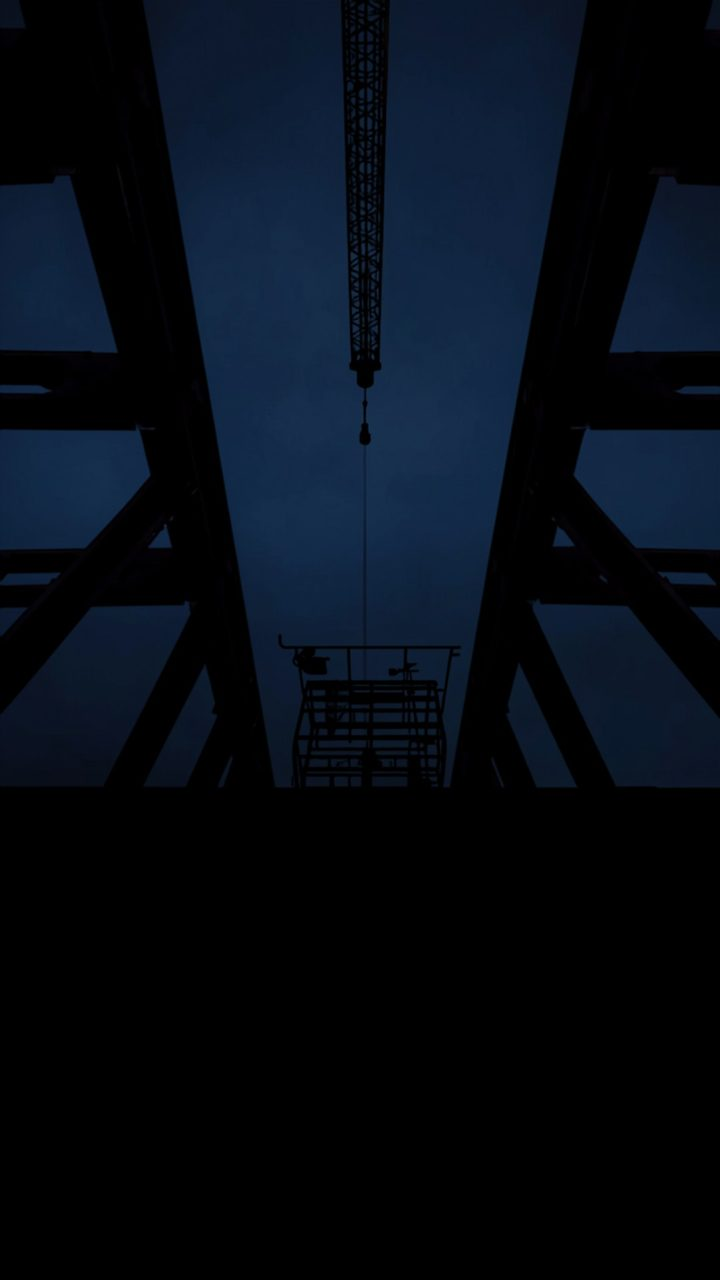
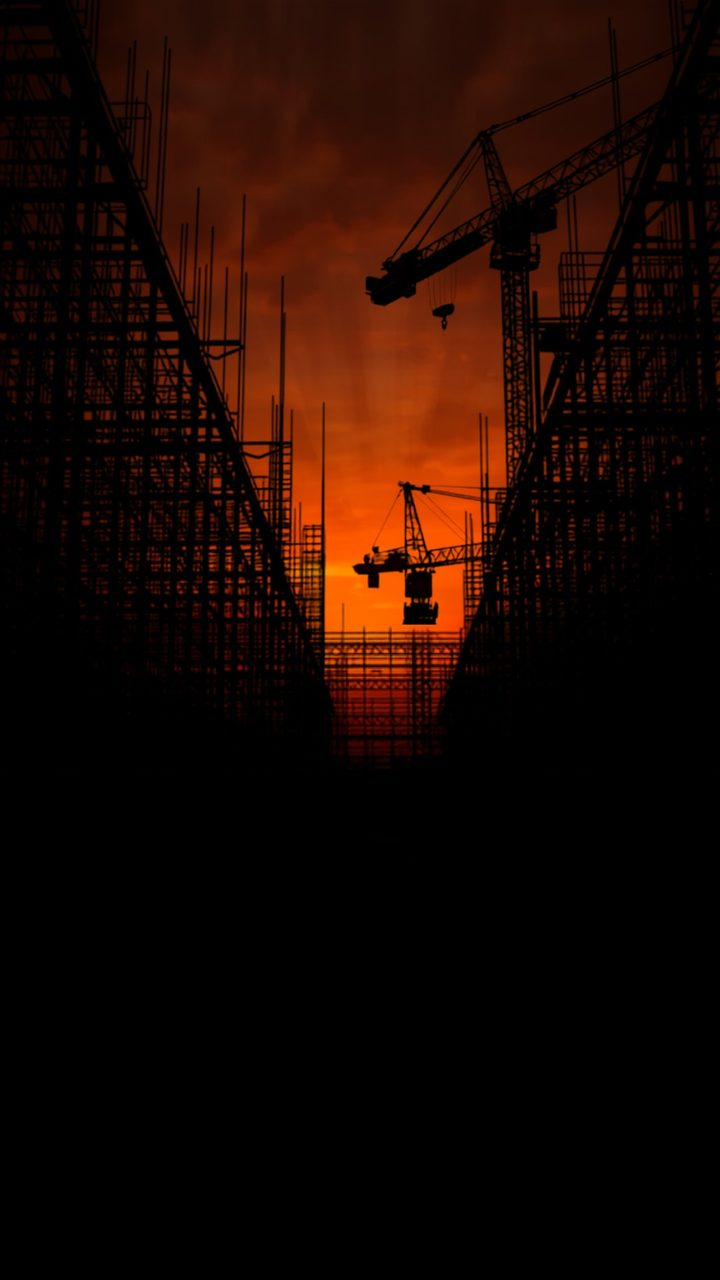
feat(brand): extend sunlight revamp site-wide + warm sector imagery
- Sweep 20 remaining pages/components from navy+coral to black/white/yellow
  (about, auth, 404, company hero/roles, job filters, tabs, employer/admin,
  candidate portal, impjieg-mark) — removed AI-tell eyebrow pills, gradient
  text, signal-blue/teal glows; navy panels -> warm-black
- Email/QR/brand color constants (brand.ts, email-branding.ts, job-alerts.ts,
  qr-code.ts) repointed to sunlight palette with contrast preserved (email
  accent text -> dark gold #8A6300; QR modules -> near-black; CTA yellow w/ dark text)
- Regenerated all 8 sector card images in warm amber/black tones to match the
  yellow brand (was cool navy/blue) — ~500KB total
- Added soft sunlight glow behind the homepage hero

Production build + lint pass.

diff --git a/src/app/admin/dashboard/page.tsx b/src/app/admin/dashboard/page.tsx
@@ -77,7 +77,7 @@ function StatCard({
 }) {
   return (
     <Card className="overflow-hidden border-border/70 bg-surface p-5 shadow-sm">
-      <div className="h-1 w-full rounded-full bg-[linear-gradient(90deg,#1E63FF_0%,#14C7B7_100%)]" />
+      <div className="h-1 w-full rounded-full bg-accent" />
       <div className="mt-4 flex items-center justify-between gap-3">
         <div className="min-w-0">
           <p className="text-xs uppercase tracking-[0.22em] text-muted-foreground">{label}</p>
@@ -177,9 +177,8 @@ export default async function AdminDashboardPage() {
 
   return (
     <div className="space-y-8 px-4 py-8 sm:px-6 lg:px-8">
-      <div className="overflow-hidden rounded-[2rem] border border-border/70 bg-[linear-gradient(135deg,#0B1220_0%,#121A2B_55%,#0F172A_100%)] text-white shadow-[0_28px_80px_rgba(11,18,32,0.18)]">
+      <div className="overflow-hidden rounded-[2rem] border border-border/70 bg-gradient-to-br from-[#272019] to-[#0C0A08] text-white shadow-[0_28px_80px_rgba(12,10,8,0.18)]">
         <div className="relative overflow-hidden px-6 py-7 sm:px-8">
-          <div className="absolute inset-0 opacity-70 [background-image:radial-gradient(circle_at_top_right,rgba(30,99,255,0.24),transparent_34%),radial-gradient(circle_at_bottom_left,rgba(20,199,183,0.16),transparent_28%)]" />
           <div className="relative flex flex-col gap-6 lg:flex-row lg:items-start lg:justify-between">
             <div className="max-w-3xl space-y-4">
               <div className="flex flex-wrap items-center gap-2">
@@ -284,7 +283,7 @@ export default async function AdminDashboardPage() {
 
       <section className="grid gap-6 xl:grid-cols-[1.2fr_0.8fr]">
         <Card className="overflow-hidden border-border/70 bg-surface p-0 shadow-sm">
-          <div className="h-1 w-full bg-[linear-gradient(90deg,rgba(226,76,76,0.95)_0%,rgba(30,99,255,0.95)_48%,rgba(20,199,183,0.95)_100%)]" />
+          <div className="h-1 w-full bg-accent" />
           <div className="p-6">
             <div className="flex flex-col gap-4 sm:flex-row sm:items-start sm:justify-between">
               <div>
@@ -329,7 +328,7 @@ export default async function AdminDashboardPage() {
         </Card>
 
         <Card className="overflow-hidden border-border/70 bg-surface p-0 shadow-sm">
-          <div className="h-1 w-full bg-[linear-gradient(90deg,rgba(20,199,183,0.95)_0%,rgba(30,99,255,0.95)_100%)]" />
+          <div className="h-1 w-full bg-accent" />
           <div className="p-6">
             <div className="flex items-start justify-between gap-3">
               <div>
@@ -353,7 +352,7 @@ export default async function AdminDashboardPage() {
               {recentAuditLogs.map((log) => (
                 <div
                   key={log.id}
-                  className="rounded-[1.25rem] border border-border/70 bg-muted/20 p-4 shadow-[0_8px_24px_rgba(11,18,32,0.04)]"
+                  className="rounded-[1.25rem] border border-border/70 bg-muted/20 p-4 shadow-[0_8px_24px_rgba(12,10,8,0.04)]"
                 >
                   <div className="flex items-start justify-between gap-3">
                     <div className="space-y-1">
@@ -506,7 +505,7 @@ export default async function AdminDashboardPage() {
             {recentApplications.map((application) => (
               <div
                 key={application.id}
-                className="rounded-2xl border border-border/70 bg-muted/15 p-4 shadow-[0_8px_24px_rgba(11,18,32,0.04)]"
+                className="rounded-2xl border border-border/70 bg-muted/15 p-4 shadow-[0_8px_24px_rgba(12,10,8,0.04)]"
               >
                 <div className="flex flex-col gap-3 sm:flex-row sm:items-center sm:justify-between">
                   <div>
@@ -556,7 +555,7 @@ export default async function AdminDashboardPage() {
               {recentEmployers.map((employer) => (
                 <div
                   key={employer.id}
-                className="rounded-2xl border border-border/70 bg-muted/15 p-4 shadow-[0_8px_24px_rgba(11,18,32,0.04)]"
+                className="rounded-2xl border border-border/70 bg-muted/15 p-4 shadow-[0_8px_24px_rgba(12,10,8,0.04)]"
               >
                 <div className="flex items-center justify-between gap-3">
                   <div>
@@ -586,7 +585,7 @@ export default async function AdminDashboardPage() {
               {recentPayments.map((payment) => (
                 <div
                   key={payment.id}
-                  className="flex items-center justify-between rounded-2xl border border-border/70 bg-muted/15 p-4 shadow-[0_8px_24px_rgba(11,18,32,0.04)]"
+                  className="flex items-center justify-between rounded-2xl border border-border/70 bg-muted/15 p-4 shadow-[0_8px_24px_rgba(12,10,8,0.04)]"
                 >
                   <div>
                     <p className="font-medium text-foreground">{payment.listing_type}</p>
@@ -619,7 +618,7 @@ export default async function AdminDashboardPage() {
             {recentAlerts.map((alert) => (
               <div
                 key={alert.id}
-                className="flex items-center justify-between rounded-2xl border border-border/70 bg-muted/15 p-4 shadow-[0_8px_24px_rgba(11,18,32,0.04)]"
+                className="flex items-center justify-between rounded-2xl border border-border/70 bg-muted/15 p-4 shadow-[0_8px_24px_rgba(12,10,8,0.04)]"
               >
                 <div>
                   <p className="font-medium text-foreground">{alert.email}</p>
@@ -644,7 +643,7 @@ export default async function AdminDashboardPage() {
             {recentSubscriptions.map((subscription) => (
               <div
                 key={subscription.id}
-                className="flex items-center justify-between rounded-2xl border border-border/70 bg-muted/15 p-4 shadow-[0_8px_24px_rgba(11,18,32,0.04)]"
+                className="flex items-center justify-between rounded-2xl border border-border/70 bg-muted/15 p-4 shadow-[0_8px_24px_rgba(12,10,8,0.04)]"
               >
                 <div>
                   <p className="font-medium text-foreground">

diff --git a/src/app/auth/login/page.tsx b/src/app/auth/login/page.tsx
@@ -38,20 +38,11 @@ function LoginForm() {
 
   return (
     <div className="space-y-6">
-      <div className="rounded-[1.75rem] border border-border/70 bg-[linear-gradient(135deg,#0B1220_0%,#121A2B_55%,#0F172A_100%)] p-5 text-white shadow-[0_20px_60px_rgba(11,18,32,0.14)]">
+      <div className="rounded-[1.75rem] border border-border/70 bg-gradient-to-br from-[#272019] to-[#0C0A08] p-5 text-white shadow-[0_20px_60px_rgba(12,10,8,0.14)]">
         <div className="flex flex-col gap-4">
-          <div className="flex flex-wrap items-center gap-2">
-            <span className="inline-flex items-center gap-1.5 rounded-full border border-white/10 bg-white/10 px-3 py-1 text-xs font-medium text-white/90">
-              <Shield className="h-3.5 w-3.5" />
-              Secure sign in
-            </span>
-            <span className="inline-flex items-center gap-1.5 rounded-full border border-white/10 bg-white/5 px-3 py-1 text-xs font-medium text-white/75">
-              {destinationLabel}
-            </span>
-          </div>
           <div className="space-y-2">
             <p className="text-xs uppercase tracking-[0.28em] text-white/55">
-              Workspace access
+              Workspace access · {destinationLabel}
             </p>
             <h1 className="text-3xl font-semibold text-white">
               Welcome back
@@ -62,17 +53,17 @@ function LoginForm() {
           </div>
           <div className="grid gap-3 sm:grid-cols-3">
             <Card className="border-white/10 bg-white/5 p-4 text-white shadow-none">
-              <Briefcase className="h-4 w-4 text-signal-teal" />
+              <Briefcase className="h-4 w-4 text-accent" />
               <p className="mt-3 text-sm font-medium">Employer tools</p>
               <p className="mt-1 text-xs text-white/65">Post roles, review applicants, and manage billing.</p>
             </Card>
             <Card className="border-white/10 bg-white/5 p-4 text-white shadow-none">
-              <UserRound className="h-4 w-4 text-brand-blue" />
+              <UserRound className="h-4 w-4 text-accent" />
               <p className="mt-3 text-sm font-medium">Candidate workspace</p>
               <p className="mt-1 text-xs text-white/65">Track applications, alerts, and saved roles.</p>
             </Card>
             <Card className="border-white/10 bg-white/5 p-4 text-white shadow-none">
-              <Shield className="h-4 w-4 text-performance-amber" />
+              <Shield className="h-4 w-4 text-accent" />
               <p className="mt-3 text-sm font-medium">Admin access</p>
               <p className="mt-1 text-xs text-white/65">Use the internal admin login when you need console access.</p>
             </Card>

diff --git a/src/lib/email-branding.ts b/src/lib/email-branding.ts
@@ -28,11 +28,11 @@ export function buildBrandedEmailShell({
   const safeCtaLabel = cta ? escapeHtml(cta.label) : null;
 
   return `
-    <div style="margin:0;padding:0;background:#F5F8FC;color:#0B1220;font-family:Inter,Arial,sans-serif;">
+    <div style="margin:0;padding:0;background:#FFFBED;color:#1A1613;font-family:Inter,Arial,sans-serif;">
       <div style="margin:0 auto;max-width:640px;padding:28px 16px;">
-        <div style="overflow:hidden;border-radius:24px;border:1px solid #DBE4F0;background:#FFFFFF;box-shadow:0 18px 48px rgba(11,18,32,0.08);">
-          <div style="background:#0B1220;padding:26px 28px;color:#F8FAFC;">
-            <div style="font-size:11px;font-weight:700;letter-spacing:0.22em;text-transform:uppercase;color:#14C7B7;">${safeEyebrow}</div>
+        <div style="overflow:hidden;border-radius:24px;border:1px solid #ECE5D6;background:#FFFFFF;box-shadow:0 18px 48px rgba(26,22,19,0.08);">
+          <div style="background:#14110D;padding:26px 28px;color:#F8FAFC;">
+            <div style="font-size:11px;font-weight:700;letter-spacing:0.22em;text-transform:uppercase;color:#FFC400;">${safeEyebrow}</div>
             <h1 style="margin:10px 0 0;font-size:26px;line-height:1.15;font-weight:800;letter-spacing:-0.03em;">${safeTitle}</h1>
             ${safeIntro ? `<p style="margin:12px 0 0;color:#C9D4E5;font-size:15px;line-height:1.6;">${safeIntro}</p>` : ""}
           </div>
@@ -40,12 +40,12 @@ export function buildBrandedEmailShell({
             ${bodyHtml}
             ${
               safeCtaHref && safeCtaLabel
-                ? `<p style="margin:24px 0 0;"><a href="${safeCtaHref}" style="display:inline-block;border-radius:999px;background:#1E63FF;color:#FFFFFF;font-size:14px;font-weight:700;text-decoration:none;padding:12px 18px;">${safeCtaLabel}</a></p>`
+                ? `<p style="margin:24px 0 0;"><a href="${safeCtaHref}" style="display:inline-block;border-radius:999px;background:#FFC400;color:#1A1613;font-size:14px;font-weight:700;text-decoration:none;padding:12px 18px;">${safeCtaLabel}</a></p>`
                 : ""
             }
           </div>
         </div>
-        <div style="padding:16px 4px 0;color:#64748B;font-size:12px;line-height:1.6;">
+        <div style="padding:16px 4px 0;color:#6B5E49;font-size:12px;line-height:1.6;">
           ${footerHtml ?? `Impjieg · ${escapeHtml(SITE.tagline)}`}
         </div>
       </div>

diff --git a/src/components/admin/admin-console-section-view.tsx b/src/components/admin/admin-console-section-view.tsx
@@ -66,7 +66,7 @@ function SummaryGrid({ metrics }: { metrics: SummaryMetric[] }) {
     <section className="grid gap-4 md:grid-cols-2 xl:grid-cols-4">
       {metrics.map((metric) => (
         <Card key={metric.label} className="overflow-hidden border-border/70 bg-surface p-5 shadow-sm">
-          <div className="h-1 w-full rounded-full bg-[linear-gradient(90deg,#1E63FF_0%,#14C7B7_100%)]" />
+          <div className="h-1 w-full rounded-full bg-[linear-gradient(90deg,#FFC400_0%,#E0A400_100%)]" />
           <p className="mt-4 text-xs uppercase tracking-[0.2em] text-muted-foreground">
             {metric.label}
           </p>
@@ -91,7 +91,7 @@ function Panel({
 }) {
   return (
     <Card className="overflow-hidden border-border/70 bg-surface p-0 shadow-sm">
-      <div className="h-1 w-full bg-[linear-gradient(90deg,rgba(30,99,255,0.95)_0%,rgba(20,199,183,0.95)_100%)]" />
+      <div className="h-1 w-full bg-[linear-gradient(90deg,rgba(255,196,0,0.95)_0%,rgba(224,164,0,0.95)_100%)]" />
       <div className="p-6">
         <div className="flex flex-col gap-1">
           <p className="text-xs uppercase tracking-[0.22em] text-muted-foreground">
@@ -156,7 +156,7 @@ function SectionItem({
   actions?: React.ReactNode;
 }) {
   return (
-    <div className="flex flex-col gap-3 rounded-[1.25rem] border border-border/70 bg-muted/15 p-4 shadow-[0_8px_24px_rgba(11,18,32,0.04)] sm:flex-row sm:items-center sm:justify-between">
+    <div className="flex flex-col gap-3 rounded-[1.25rem] border border-border/70 bg-muted/15 p-4 shadow-[0_8px_24px_rgba(26,22,19,0.04)] sm:flex-row sm:items-center sm:justify-between">
       <div className="space-y-1">
         <div className="flex flex-wrap items-center gap-2">
           <p className="font-medium text-foreground">{title}</p>
@@ -260,7 +260,7 @@ function AggregationConsole({ data }: { data: AdminConsoleData }) {
           {data.aggregationSources.map((source) => (
             <div
               key={source.id}
-              className="rounded-[1.25rem] border border-border/70 bg-muted/15 p-4 shadow-[0_8px_24px_rgba(11,18,32,0.04)]"
+              className="rounded-[1.25rem] border border-border/70 bg-muted/15 p-4 shadow-[0_8px_24px_rgba(26,22,19,0.04)]"
             >
               <div className="flex items-start justify-between gap-3">
                 <div>

diff --git a/src/lib/job-alerts.ts b/src/lib/job-alerts.ts
@@ -79,10 +79,10 @@ export function buildJobAlertDigestEmail({
       const jobUrl = safeUrlHref(job.url, "#");
 
       return `
-        <li style="margin:0 0 14px;padding:16px;border:1px solid #DBE4F0;border-radius:16px;background:#FFFFFF;list-style:none;">
-          <a href="${jobUrl}" style="font-weight:800;color:#0B1220;text-decoration:none;">${escapeHtml(job.title)}</a><br>
+        <li style="margin:0 0 14px;padding:16px;border:1px solid #ECE5D6;border-radius:16px;background:#FFFFFF;list-style:none;">
+          <a href="${jobUrl}" style="font-weight:800;color:#1A1613;text-decoration:none;">${escapeHtml(job.title)}</a><br>
           <span style="display:inline-block;margin-top:6px;color:#64748B;">${escapeHtml(job.employerName)} · ${escapeHtml(job.location)} · ${escapeHtml(job.jobType)}${job.remoteType ? ` · ${escapeHtml(job.remoteType)}` : ""}</span><br>
-          <span style="display:inline-block;margin-top:8px;color:#1E63FF;font-weight:800;">${escapeHtml(salary)}</span>
+          <span style="display:inline-block;margin-top:8px;color:#8A6300;font-weight:800;">${escapeHtml(salary)}</span>
         </li>
       `;
     })
@@ -99,7 +99,7 @@ export function buildJobAlertDigestEmail({
         label: "Browse all jobs",
         href: browseJobsUrl,
       },
-      footerHtml: `You are receiving this email because you created a job alert on Impjieg. <a href="${unsubscribeUrl}" style="color:#1E63FF;">Unsubscribe</a>`,
+      footerHtml: `You are receiving this email because you created a job alert on Impjieg. <a href="${unsubscribeUrl}" style="color:#8A6300;">Unsubscribe</a>`,
     }),
   };
 }
@@ -125,7 +125,7 @@ export function buildJobAlertConfirmationEmail({
         label: "Browse the latest jobs",
         href: browseJobsUrl,
       },
-      footerHtml: `If you no longer want these alerts, you can <a href="${unsubscribeUrl}" style="color:#1E63FF;">unsubscribe here</a>.`,
+      footerHtml: `If you no longer want these alerts, you can <a href="${unsubscribeUrl}" style="color:#8A6300;">unsubscribe here</a>.`,
     }),
   };
 }

diff --git a/src/components/companies/company-hero.tsx b/src/components/companies/company-hero.tsx
@@ -55,7 +55,7 @@ export default function CompanyHero({
             priority
           />
         ) : (
-          <div className="h-full w-full bg-gradient-to-br from-[#08111F] via-[#0C2240] to-[#1A3A5C]" />
+          <div className="h-full w-full bg-gradient-to-br from-[#272019] to-[#0C0A08]" />
         )}
         <div className="absolute inset-0 bg-gradient-to-t from-black/30 to-transparent" />
       </div>
@@ -146,7 +146,7 @@ export default function CompanyHero({
           <div className="mt-5 flex flex-wrap gap-3">
             <Link
               href={heroCtaHref}
-              className="inline-flex h-12 items-center justify-center rounded-xl bg-[linear-gradient(135deg,var(--primary)_0%,#174FD1_100%)] px-6 text-base font-medium text-primary-foreground shadow-[0_12px_28px_rgba(30,99,255,0.22)] transition-all hover:-translate-y-0.5 hover:shadow-[0_16px_34px_rgba(30,99,255,0.28)]"
+              className="inline-flex h-12 items-center justify-center rounded-xl bg-[linear-gradient(135deg,var(--primary)_0%,#E0A400_100%)] px-6 text-base font-medium text-primary-foreground shadow-[0_12px_28px_rgba(255,196,0,0.22)] transition-all hover:-translate-y-0.5 hover:shadow-[0_16px_34px_rgba(255,196,0,0.28)]"
             >
               {heroCtaLabel}
             </Link>
@@ -155,7 +155,7 @@ export default function CompanyHero({
                 href={heroSecondaryHref}
                 target="_blank"
                 rel="noopener noreferrer"
-                className="inline-flex h-12 items-center justify-center rounded-xl border border-border bg-surface/90 px-6 text-base font-medium text-foreground shadow-[0_8px_20px_rgba(11,18,32,0.04)] transition-all hover:border-border-hover hover:bg-muted/60"
+                className="inline-flex h-12 items-center justify-center rounded-xl border border-border bg-surface/90 px-6 text-base font-medium text-foreground shadow-[0_8px_20px_rgba(20,17,13,0.04)] transition-all hover:border-border-hover hover:bg-muted/60"
               >
                 {heroSecondaryLabel}
               </a>

diff --git a/src/app/employer/dashboard/page.tsx b/src/app/employer/dashboard/page.tsx
@@ -154,7 +154,7 @@ export default async function EmployerDashboardPage() {
       </div>
 
       <Card className="overflow-hidden border-border/70 bg-surface shadow-sm">
-        <div className="border-b border-border/60 bg-[linear-gradient(135deg,rgba(30,99,255,0.08),rgba(20,199,183,0.04))] p-5">
+        <div className="border-b border-border/60 bg-[linear-gradient(135deg,rgba(255,196,0,0.08),rgba(255,196,0,0.04))] p-5">
           <div className="flex flex-col gap-1 sm:flex-row sm:items-center sm:justify-between">
             <div>
               <p className="text-xs font-semibold uppercase tracking-[0.22em] text-muted-foreground">
@@ -233,7 +233,7 @@ export default async function EmployerDashboardPage() {
 
       <div className="grid gap-4 lg:grid-cols-[1.2fr_0.8fr]">
         <Card className="overflow-hidden border-border/70 bg-surface shadow-sm">
-          <div className="border-b border-border/60 bg-[linear-gradient(135deg,rgba(30,99,255,0.08),rgba(20,199,183,0.04))] p-5">
+          <div className="border-b border-border/60 bg-[linear-gradient(135deg,rgba(255,196,0,0.08),rgba(255,196,0,0.04))] p-5">
             <div className="flex items-center justify-between gap-3">
               <div>
                 <p className="text-xs font-semibold uppercase tracking-[0.22em] text-muted-foreground">
@@ -300,7 +300,7 @@ export default async function EmployerDashboardPage() {
         </Card>
       </div>
 
-      <Card className="overflow-hidden border-border/70 bg-[linear-gradient(135deg,rgba(14,23,45,0.98),rgba(23,37,76,0.94)_55%,rgba(12,17,29,0.98))] p-6 text-white shadow-lg sm:p-8">
+      <Card className="overflow-hidden border-border/70 bg-[linear-gradient(135deg,#272019,#14110D_55%,#0C0A08)] p-6 text-white shadow-lg sm:p-8">
         <div className="flex flex-col gap-6 lg:flex-row lg:items-start lg:justify-between">
           <div className="max-w-2xl">
             <Badge variant="info" className="border-white/10 bg-white/10 text-white">

diff --git a/src/components/companies/company-open-roles.tsx b/src/components/companies/company-open-roles.tsx
@@ -41,13 +41,13 @@ export default function CompanyOpenRoles({
           <div className="mt-5 flex flex-wrap justify-center gap-3">
             <Link
               href="/candidate/alerts"
-              className="inline-flex h-10 items-center justify-center rounded-xl bg-[linear-gradient(135deg,var(--primary)_0%,#174FD1_100%)] px-4 text-sm font-medium text-primary-foreground shadow-[0_12px_28px_rgba(30,99,255,0.22)] transition-all hover:-translate-y-0.5 hover:shadow-[0_16px_34px_rgba(30,99,255,0.28)]"
+              className="inline-flex h-10 items-center justify-center rounded-xl bg-[linear-gradient(135deg,var(--primary)_0%,#E0A400_100%)] px-4 text-sm font-medium text-primary-foreground shadow-[0_12px_28px_rgba(255,196,0,0.22)] transition-all hover:-translate-y-0.5 hover:shadow-[0_16px_34px_rgba(255,196,0,0.28)]"
             >
               Create job alert
             </Link>
             <Link
               href={display.sectorLinkHref}
-              className="inline-flex h-10 items-center justify-center rounded-xl border border-border bg-surface/90 px-4 text-sm font-medium text-foreground shadow-[0_8px_20px_rgba(11,18,32,0.04)] transition-all hover:border-border-hover hover:bg-muted/60"
+              className="inline-flex h-10 items-center justify-center rounded-xl border border-border bg-surface/90 px-4 text-sm font-medium text-foreground shadow-[0_8px_20px_rgba(20,17,13,0.04)] transition-all hover:border-border-hover hover:bg-muted/60"
             >
               {display.sectorLinkLabel}
             </Link>

diff --git a/src/components/ui/tabs.tsx b/src/components/ui/tabs.tsx
@@ -19,7 +19,7 @@ const TabsList = React.forwardRef<
   <TabsPrimitive.List
     ref={ref}
     className={cn(
-      "inline-flex h-10 items-center justify-center rounded-full border border-border/70 bg-muted/80 p-1 text-sm font-medium shadow-[0_10px_24px_rgba(11,18,32,0.05)]",
+      "inline-flex h-10 items-center justify-center rounded-full border border-border/70 bg-muted/80 p-1 text-sm font-medium shadow-[0_10px_24px_rgba(255,196,0,0.05)]",
       className
     )}
     {...props}
@@ -34,7 +34,7 @@ const TabsTrigger = React.forwardRef<
   <TabsPrimitive.Trigger
     ref={ref}
     className={cn(
-      "rounded-full px-3 py-2 text-sm font-medium text-muted-foreground ring-offset-background hover:bg-surface/70 hover:text-foreground focus:bg-surface/70 focus:text-foreground focus-visible:ring-2 focus-visible:ring-primary/30 focus-visible:ring-offset-2 disabled:pointer-events-none disabled:opacity-50 data-[state=active]:bg-harbor data-[state=active]:text-white data-[state=active]:shadow-sm",
+      "rounded-full px-3 py-2 text-sm font-medium text-muted-foreground ring-offset-background hover:bg-surface/70 hover:text-foreground focus:bg-surface/70 focus:text-foreground focus-visible:ring-2 focus-visible:ring-primary/30 focus-visible:ring-offset-2 disabled:pointer-events-none disabled:opacity-50 data-[state=active]:bg-[#14110D] data-[state=active]:text-white data-[state=active]:shadow-sm",
       className
     )}
     {...props}

diff --git a/src/app/auth/signup/page.tsx b/src/app/auth/signup/page.tsx
@@ -72,7 +72,7 @@ function SignupForm() {
           </div>
         </div>
       )}
-      <div className="rounded-[1.75rem] border border-border/70 bg-[linear-gradient(135deg,#0B1220_0%,#121A2B_55%,#0F172A_100%)] p-5 text-white shadow-[0_20px_60px_rgba(11,18,32,0.14)]">
+      <div className="rounded-[1.75rem] border border-border/70 bg-gradient-to-br from-[#272019] to-[#0C0A08] p-5 text-white shadow-[0_20px_60px_rgba(12,10,8,0.14)]">
         <div className="flex flex-col gap-4">
           <div className="flex flex-wrap items-center gap-2">
             <span className="inline-flex items-center gap-1.5 rounded-full border border-white/10 bg-white/10 px-3 py-1 text-xs font-medium text-white/90">
@@ -251,7 +251,7 @@ export default function SignupPage() {
     <Suspense
       fallback={
         <div className="space-y-6">
-          <div className="rounded-[1.75rem] border border-border/70 bg-[linear-gradient(135deg,#0B1220_0%,#121A2B_55%,#0F172A_100%)] p-5 text-white shadow-[0_20px_60px_rgba(11,18,32,0.14)]">
+          <div className="rounded-[1.75rem] border border-border/70 bg-gradient-to-br from-[#272019] to-[#0C0A08] p-5 text-white shadow-[0_20px_60px_rgba(12,10,8,0.14)]">
             <div className="h-6 w-40 rounded bg-white/10" />
             <div className="mt-4 h-4 w-full max-w-lg rounded bg-white/10" />
           </div>

diff --git a/src/components/jobs/search-filters.tsx b/src/components/jobs/search-filters.tsx
@@ -266,7 +266,7 @@ export default function SearchFilters() {
                     htmlFor={id}
                     className={`inline-flex cursor-pointer items-center gap-2 rounded-lg border px-3 py-2 text-sm font-medium transition-colors ${
                       checked
-                        ? "border-primary bg-primary/10 text-primary shadow-[0_0_0_1px_rgba(30,99,255,0.2)]"
+                        ? "border-primary bg-primary/10 text-primary shadow-[0_0_0_1px_rgba(255,196,0,0.2)]"
                         : "border-border bg-background hover:border-primary/30 hover:bg-primary/5"
                     }`}
                   >
@@ -296,7 +296,7 @@ export default function SearchFilters() {
                     htmlFor={id}
                     className={`inline-flex cursor-pointer items-center gap-2 rounded-lg border px-3 py-2 text-sm font-medium transition-colors ${
                       checked
-                        ? "border-primary bg-primary/10 text-primary shadow-[0_0_0_1px_rgba(30,99,255,0.2)]"
+                        ? "border-primary bg-primary/10 text-primary shadow-[0_0_0_1px_rgba(255,196,0,0.2)]"
                         : "border-border bg-background hover:border-primary/30 hover:bg-primary/5"
                     }`}
                   >

diff --git a/src/app/employer/post-job/page.tsx b/src/app/employer/post-job/page.tsx
@@ -154,7 +154,7 @@ export default function PostJobPage() {
       <form action={handleSubmit} className="space-y-8">
         {entitlements && (
           <Card className="overflow-hidden border-border/70 bg-surface p-0 shadow-sm">
-            <div className="border-b border-border/60 bg-[linear-gradient(135deg,rgba(30,99,255,0.08),rgba(20,199,183,0.04))] px-6 py-5">
+            <div className="border-b border-border/60 bg-[linear-gradient(135deg,rgba(255,196,0,0.08),rgba(255,196,0,0.04))] px-6 py-5">
               <p className="text-xs font-semibold uppercase tracking-[0.22em] text-muted-foreground">
                 Hiring add-ons
               </p>
@@ -485,7 +485,7 @@ export default function PostJobPage() {
                   {entitlements && entitlements.credits.featured.remaining > 0 ? (
                     <Badge variant="success">Free with credit</Badge>
                   ) : (
-                    <span className="font-mono text-lg font-bold bg-gradient-to-r from-primary to-secondary bg-clip-text text-transparent">
+                    <span className="font-mono text-lg font-bold text-foreground">
                       €{PRICING.featured.price}
                     </span>
                   )}
